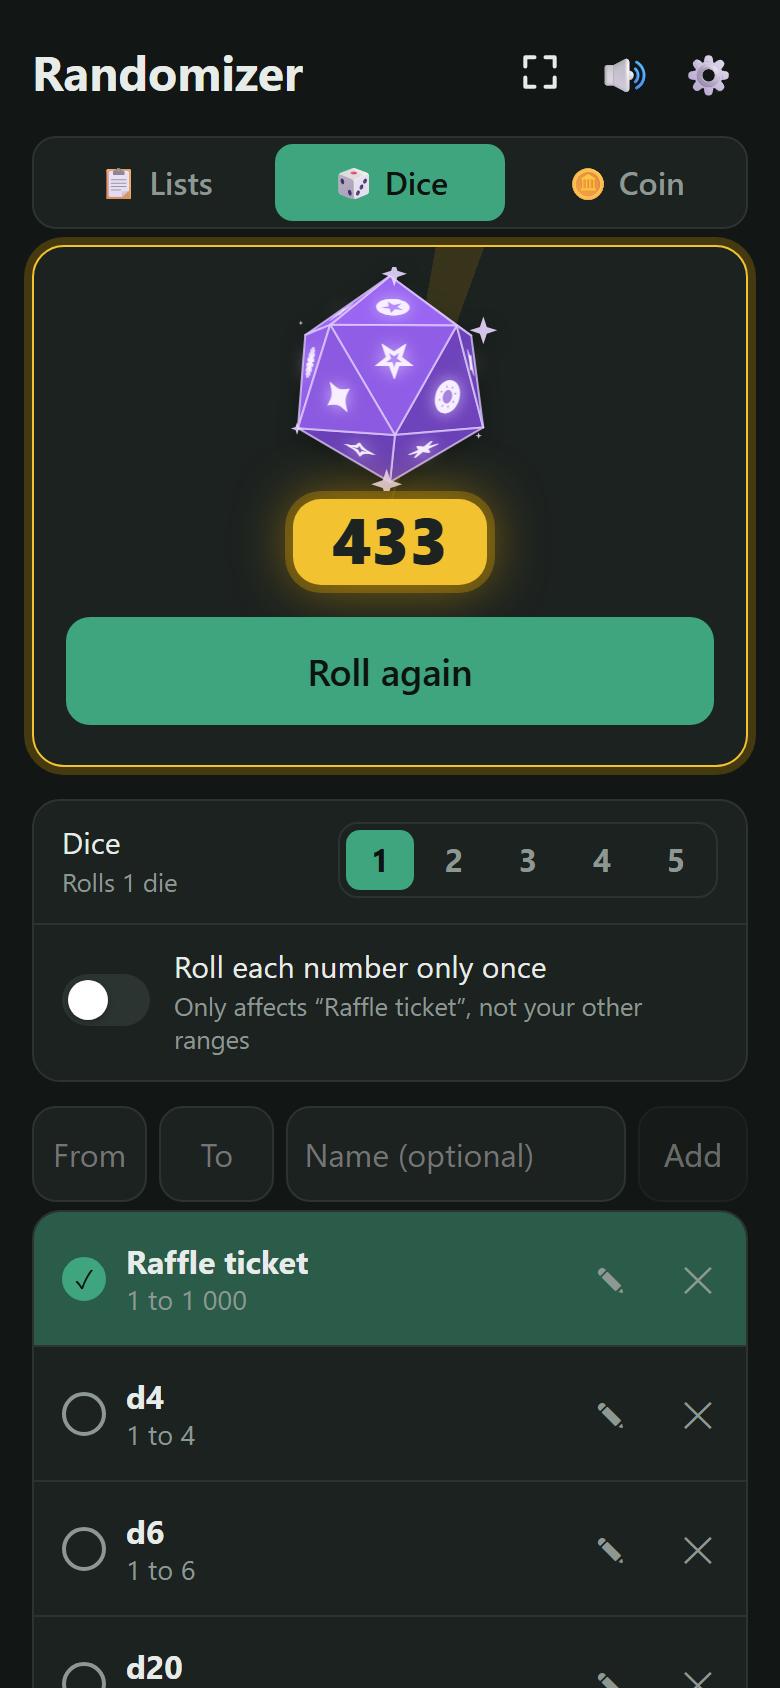
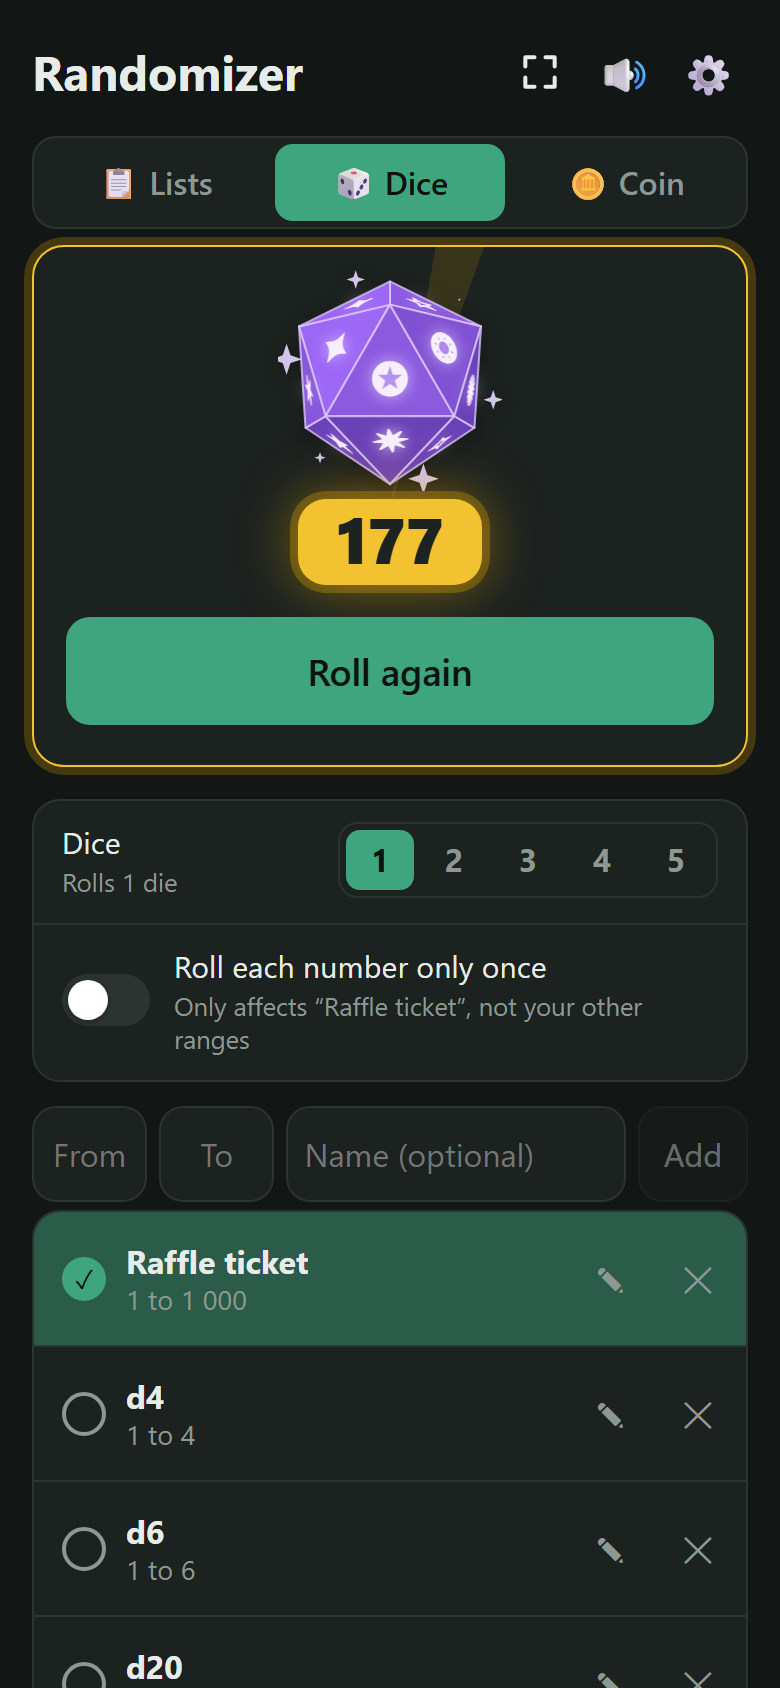
Magic die lands on a face; its sparkles keep twinkling
- The magic d20 rolls like the other dice and comes to rest with a face
  straight toward you (any face: it has symbols, not numbers)
- Its sparkles keep twinkling while it is on screen, with a light redraw
  that stops by itself in other tabs or when the app is in the background
- README and magic die screenshot updated

Changed region(s): [[0.3385, 0.154, 0.6462, 0.3697]]

diff --git a/index.html b/index.html
@@ -2910,8 +2910,6 @@ const TURN_MS = 600;  // how long one full turn takes at the start of a roll
 // How far through its turning a die is (0–1) at a point of the roll (0–1):
 // fast at first, slowing to a stop exactly at the end.
 const slowDown = (x) => 1 - (1 - x) ** 3;
-// upright with a corner on top, turned by angle (how a magic die spins)
-const upright = (d, angle) => qMul(qAxis([0, 1, 0], angle), qFromTo(d.shape.v[0], [0, 1, 0]));
 
 // Gives the shown dice the range's shape and numbers; keeps where they rest
 // unless the range changed.
@@ -2936,10 +2934,9 @@ function setupDice(range) {
       : role === 'tens' ? String((f.num - 1) * 10).padStart(2, '0')
       : role === 'ones' ? String(f.num - 1)
       : String(range.from + (f.num - 1) % size));
-    // at rest a real die shows its highest number; a magic die stands on a corner
+    // at rest it shows a face straight on (a real die its highest number)
     const top = d.shape.faces.reduce((a, f) => f.num > a.num ? f : a);
-    d.angle = 0.5;
-    d.q = look.magic ? upright(d, d.angle) : restPose(top);
+    d.q = restPose(top);
   });
 }
 
@@ -2947,7 +2944,24 @@ function showIdleDice(range) {
   if (diceAnim) return;
   setupDice(range);
   drawDice();
+  keepSparkling();
 }
+
+// A magic die's sparkles keep twinkling while it's on screen, not only while
+// it rolls: a light redraw (about 30 times a second) that stops by itself when
+// the die is gone, another tab is shown or the app is in the background.
+var sparkling = false; // var: render (and so this) may run before this line
+function keepSparkling() {
+  if (sparkling) return;
+  sparkling = true;
+  let last = 0;
+  requestAnimationFrame(function twinkle(now) {
+    if (mode !== 'number' || document.hidden || !dice.some(d => !d.canvas.hidden && d.magic)) { sparkling = false; return; }
+    if (!diceAnim && now - last > 33) { last = now; drawDice(now); } // while rolling, diceFrame draws
+    requestAnimationFrame(twinkle);
+  });
+}
+document.addEventListener('visibilitychange', () => { if (!document.hidden) keepSparkling(); });
 
 function drawDice(now = performance.now()) {
   for (const d of dice) if (!d.canvas.hidden && d.shape) drawDie(d, now);
@@ -3045,8 +3059,8 @@ function drawSparkles(ctx, W, now, d) {
 // Rolls the dice for ms. Each die turns about one fixed axis the whole time,
 // from exactly where it rests: a real die by the single turn that takes it to
 // its rolled face, plus a few whole turns, so it slows to a stop on that face
-// without changing direction. A magic die spins upright on a corner and slows
-// to a stop wherever it is.
+// without changing direction. A magic die rolls the same way and lands on a
+// face too (any face: it has symbols, not numbers).
 // only: which shown dice to roll (all when left out); the others stay put.
 function rollDice(range, values, ms, only = null) {
   setupDice(range);
@@ -3060,14 +3074,8 @@ function rollDice(range, values, ms, only = null) {
     d.ms = ms;
     d.from = d.q;
     d.seed = Math.random() * 6;
-    if (d.magic) {
-      d.axis = [0, 1, 0];
-      d.total = Math.PI * 2 * turns * (0.9 + Math.random() * 0.2);
-      d.angle += d.total;
-      d.target = upright(d, d.angle);
-      return;
-    }
-    const faces = d.shape.faces.map((f, fi) => fi).filter(fi => d.labels[fi] === labels[i]);
+    // a magic die has symbols, not numbers, so any face will do
+    const faces = d.shape.faces.map((f, fi) => fi).filter(fi => d.magic || d.labels[fi] === labels[i]);
     d.target = restPose(d.shape.faces[faces[randomInt(faces.length)]]);
     // the one turn from here to the target: its axis and angle
     let [w, x, y, z] = qMul(d.target, [d.from[0], -d.from[1], -d.from[2], -d.from[3]]);
@@ -3076,8 +3084,9 @@ function rollDice(range, values, ms, only = null) {
     d.axis = Math.sin(half) > 1e-6 ? unit([x, y, z]) : unit([1, Math.random() - 0.5, Math.random() - 0.5]);
     d.total = 2 * half + Math.PI * 2 * turns;
     // a knock on the table every quarter turn: quick at first, further apart
-    // and softer as it slows (slowDown run backwards gives when each happens)
-    if (ms <= 0) return;
+    // and softer as it slows (slowDown run backwards gives when each happens);
+    // a magic die twinkles instead (see rollNumber)
+    if (ms <= 0 || d.magic) return;
     for (let k = 1; k * Math.PI / 2 < d.total; k++) {
       const x = 1 - (1 - k * Math.PI / 2 / d.total) ** (1 / 3);
       sfx.clack(x * ms / 1000 + Math.random() * 0.02, 1 - 0.6 * x);

diff --git a/sw.js b/sw.js
@@ -1,5 +1,5 @@
 // Bump the version when you change any file so phones pick up the update.
-const CACHE = 'whostarts-v84';
+const CACHE = 'whostarts-v85';
 const FILES = ['./', 'index.html', 'manifest.json', 'icon-192.png', 'icon-512.png'];
 
 // 'reload' skips the browser's own HTTP cache, so a new version really gets

diff --git a/README.md b/README.md
@@ -87,7 +87,7 @@ The faces always show the range's own numbers, so *5 to 9* is a d10 with 5, 6, 7
 
 Like real dice, opposite faces add up to the same total (1 and 6, 2 and 5, 3 and 4 on a d6), and 6 and 9 are underlined so they can't be mixed up.
 
-**The magic die ✨** is a purple, glowing d20 for ranges no real die can roll. Twinkling symbols swap on its faces while it spins upright on a corner, it slows to a stop, and its number flies out into the gold badge.
+**The magic die ✨** is a purple, glowing d20 for ranges no real die can roll. Symbols swap on its faces while it tumbles, and it lands on a face just like the other dice, then its number flies out into the gold badge. The sparkles around it keep twinkling as long as it is on screen.
 
 **How a roll works.** The number is chosen first, completely at random. Every number in the range has the same chance, using the browser's secure random numbers (`crypto.getRandomValues`). The die's tumble is then worked out to fit: from exactly where the die rests, it turns about one fixed axis, a few whole turns plus the turn that brings up that face, and slows down until it stops with the face pointing straight at you. It never changes direction or turns toward the number at the end; it simply rolls to a stop, like a real die. When a number is on a die twice, one of its faces is picked at random. The animation only shows the result; it never decides it.
 
@@ -177,7 +177,7 @@ Plain HTML, CSS and JavaScript, with no build step or dependencies.
 ### Making changes
 
 Edit the files and push to `main`. GitHub Pages publishes automatically.
-**Change `CACHE` in `sw.js` every time** (for example `whostarts-v84` → `whostarts-v85`), otherwise installed copies keep showing the old version and the update bar never appears.
+**Change `CACHE` in `sw.js` every time** (for example `whostarts-v85` → `whostarts-v86`), otherwise installed copies keep showing the old version and the update bar never appears.
 
 ## Support
 
